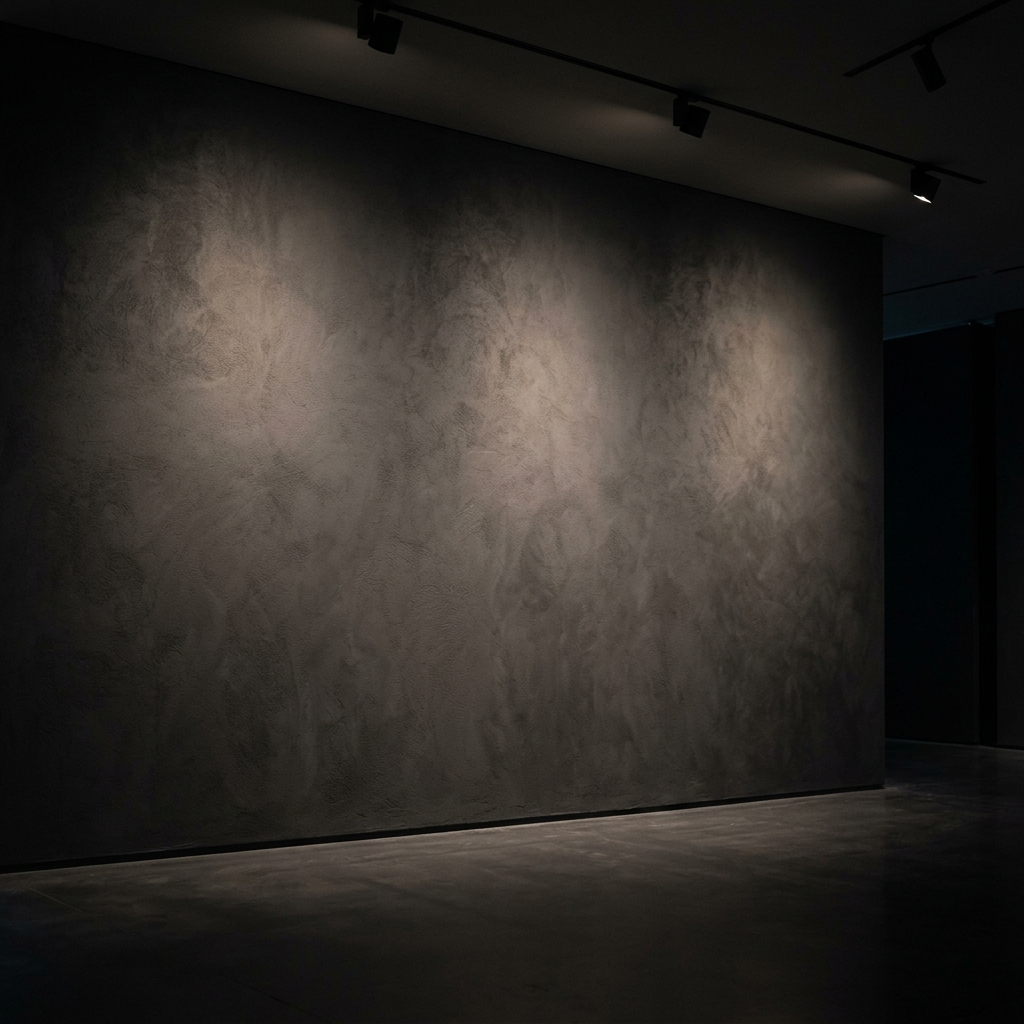
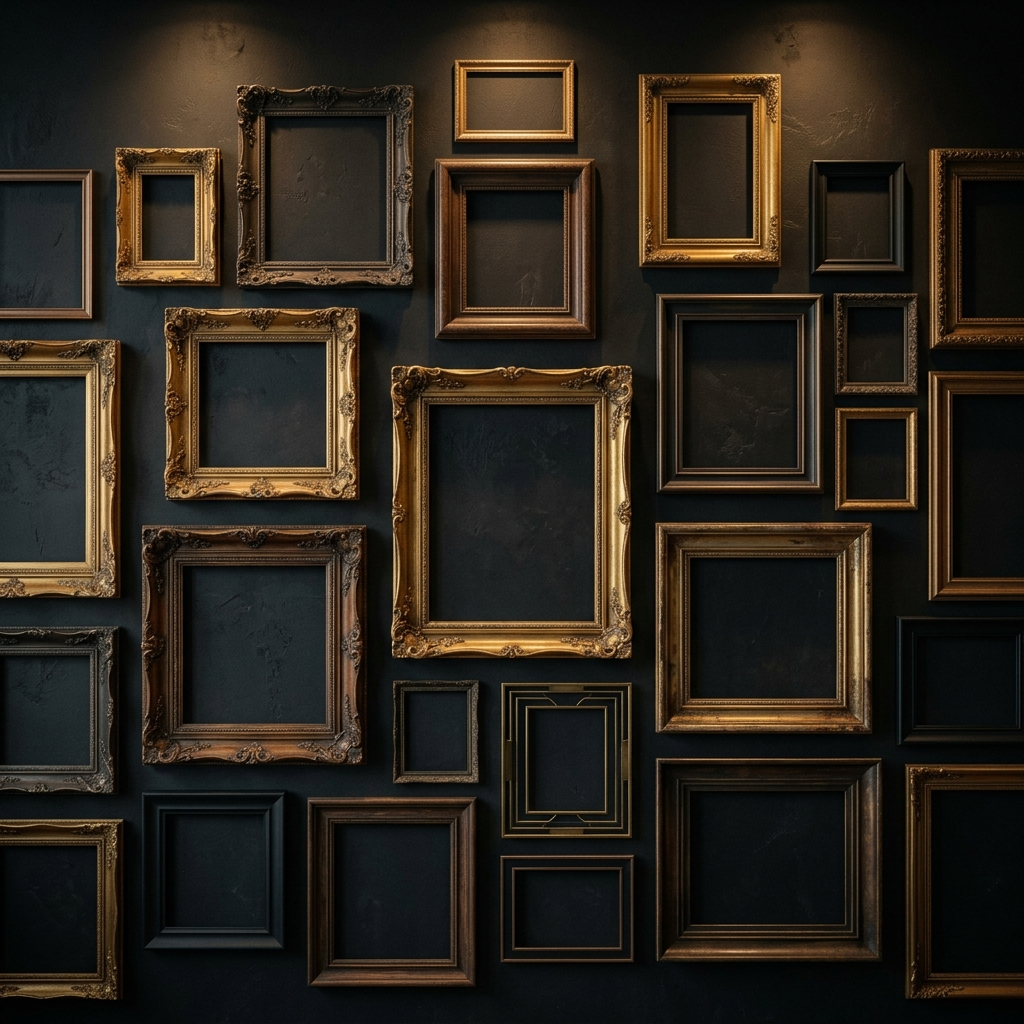
Add 3D interactive tilt animation to Frames

diff --git a/frontend/src/pages/Frames.jsx b/frontend/src/pages/Frames.jsx
@@ -5,6 +5,67 @@ import { shopProducts } from '../data/shopProducts';
 import { Check, Info, Frame } from 'lucide-react';
 import { useNavigate } from 'react-router-dom';
 
+const TiltFrameCard = ({ frame, idx }) => {
+  const x = React.useMotionValue(0);
+  const y = React.useMotionValue(0);
+
+  const mouseXSpring = React.useSpring(x);
+  const mouseYSpring = React.useSpring(y);
+
+  const rotateX = useTransform(mouseYSpring, [-0.5, 0.5], ["17.5deg", "-17.5deg"]);
+  const rotateY = useTransform(mouseXSpring, [-0.5, 0.5], ["-17.5deg", "17.5deg"]);
+
+  const handleMouseMove = (e) => {
+    const rect = e.currentTarget.getBoundingClientRect();
+    const width = rect.width;
+    const height = rect.height;
+    const mouseX = e.clientX - rect.left;
+    const mouseY = e.clientY - rect.top;
+    const xPct = mouseX / width - 0.5;
+    const yPct = mouseY / height - 0.5;
+    x.set(xPct);
+    y.set(yPct);
+  };
+
+  const handleMouseLeave = () => {
+    x.set(0);
+    y.set(0);
+  };
+
+  return (
+    <motion.div
+      initial={{ opacity: 0, y: 100 }}
+      animate={{ opacity: 1, y: 0 }}
+      transition={{ duration: 1, delay: frame.delay, type: "spring", bounce: 0.3 }}
+      style={{ y: frame.y, rotateX, rotateY, transformStyle: "preserve-3d" }}
+      onMouseMove={handleMouseMove}
+      onMouseLeave={handleMouseLeave}
+      className={`relative group rounded-sm overflow-hidden shadow-2xl shadow-black/80 border-4 border-[#1a1a1a] cursor-pointer perspective-1000 ${idx === 1 ? 'md:-mt-20' : 'md:mt-10'}`}
+    >
+      <div 
+        className="absolute inset-0 bg-cover bg-center transition-transform duration-1000 group-hover:scale-105" 
+        style={{ backgroundImage: `url(${frame.url})`, transform: "translateZ(-20px)" }}
+      ></div>
+      
+      {/* Glare effect */}
+      <motion.div
+        className="absolute inset-0 bg-gradient-to-tr from-white/0 via-white/20 to-white/0 opacity-0 group-hover:opacity-100 mix-blend-overlay pointer-events-none transition-opacity duration-300"
+        style={{
+          translateX: useTransform(mouseXSpring, [-0.5, 0.5], ["-100%", "100%"]),
+          translateY: useTransform(mouseYSpring, [-0.5, 0.5], ["-100%", "100%"]),
+        }}
+      />
+
+      <div className="absolute inset-0 bg-gradient-to-t from-black/90 via-black/10 to-transparent opacity-70 group-hover:opacity-90 transition-opacity duration-500" style={{ transform: "translateZ(10px)" }}></div>
+      
+      <div className="absolute bottom-0 left-0 w-full p-8 translate-y-4 group-hover:translate-y-0 transition-transform duration-500" style={{ transform: "translateZ(30px)" }}>
+        <h3 className="text-2xl font-serif text-white tracking-wide">{frame.title}</h3>
+        <div className="w-8 h-[2px] bg-secondary mt-3 group-hover:w-16 transition-all duration-500"></div>
+      </div>
+    </motion.div>
+  );
+};
+
 const Frames = () => {
   const navigate = useNavigate();
   const frameData = shopProducts.find((p) => p.id === 'wd-1');
@@ -100,24 +161,11 @@ const Frames = () => {
           </motion.p>
         </motion.div>
 
+
         {/* 3 Floating Frames Showcase */}
         <div className="w-full max-w-7xl mx-auto grid grid-cols-1 md:grid-cols-3 gap-8 md:gap-12 px-4 h-[60vh] md:h-[500px]">
           {showcaseFrames.map((frame, idx) => (
-            <motion.div
-              key={idx}
-              initial={{ opacity: 0, y: 100 }}
-              animate={{ opacity: 1, y: 0 }}
-              transition={{ duration: 1, delay: frame.delay, type: "spring", bounce: 0.3 }}
-              style={{ y: frame.y }}
-              className={`relative group rounded-xl overflow-hidden shadow-2xl shadow-black border border-white/10 ${idx === 1 ? 'md:-mt-20' : 'md:mt-10'}`}
-            >
-              <div className="absolute inset-0 bg-cover bg-center transition-transform duration-1000 group-hover:scale-110" style={{ backgroundImage: `url(${frame.url})` }}></div>
-              <div className="absolute inset-0 bg-gradient-to-t from-black/80 via-black/20 to-transparent opacity-60 group-hover:opacity-80 transition-opacity duration-500"></div>
-              <div className="absolute bottom-0 left-0 w-full p-8 translate-y-4 group-hover:translate-y-0 transition-transform duration-500">
-                <h3 className="text-xl font-serif text-white tracking-wide">{frame.title}</h3>
-                <div className="w-8 h-[1px] bg-secondary mt-3 group-hover:w-16 transition-all duration-500"></div>
-              </div>
-            </motion.div>
+            <TiltFrameCard key={idx} frame={frame} idx={idx} />
           ))}
         </div>
       </section>
